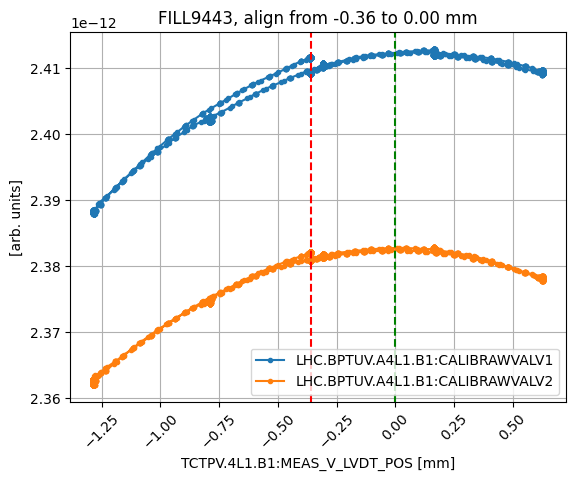
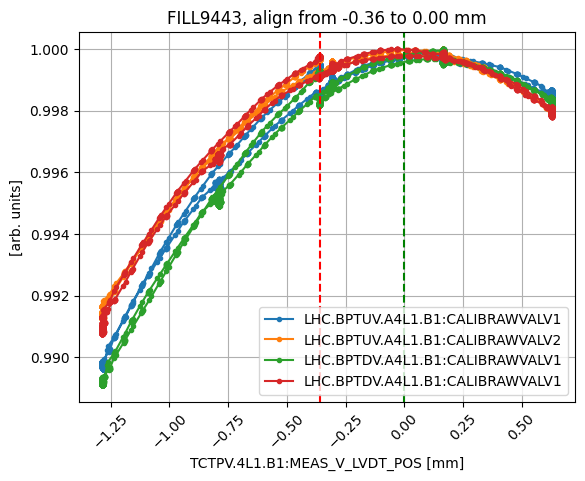
Status

Changed region(s): [[0.0312, 0.0, 1.0, 0.9979], [0.0, 0.3742, 0.0312, 0.4054]]

diff --git a/find_alignment.py b/find_alignment.py
@@ -62,6 +62,14 @@ df = sk.get(t0, t1, [
                     'LHC.BPTUH.A4L5.B1:CALIBRAWVALV2',
                     'LHC.BPTUH.A4R5.B2:CALIBRAWVALV1',
                     'LHC.BPTUH.A4R5.B2:CALIBRAWVALV2',
+                    'LHC.BPTDV.A4L1.B1:CALIBRAWVALV1',
+                    'LHC.BPTDV.A4L1.B1:CALIBRAWVALV2',
+                    'LHC.BPTDV.A4R1.B2:CALIBRAWVALV1',
+                    'LHC.BPTDV.A4R1.B2:CALIBRAWVALV2',
+                    'LHC.BPTDH.A4L5.B1:CALIBRAWVALV1',
+                    'LHC.BPTDH.A4L5.B1:CALIBRAWVALV2',
+                    'LHC.BPTDH.A4R5.B2:CALIBRAWVALV1',
+                    'LHC.BPTDH.A4R5.B2:CALIBRAWVALV2',
                     'LHC.BCTDC.A6R4.B1:BEAM_INTENSITY',
                     'LHC.BCTDC.A6R4.B2:BEAM_INTENSITY',
                     'LHC.BCTDC.B6R4.B1:BEAM_INTENSITY',
@@ -123,12 +131,26 @@ plt.ylabel(f'LHC.BCTDC.A6R4.{my_beam}:BEAM_INTENSITY [p]')
 plt.plot(df[f'DCT_{my_beam}_FIT'].between_time(t0_filtered,t1_filtered), label=f'LHC.BCTDC.A6R4.{my_beam}:BEAM_INTENSITY', color='k')
 plt.savefig(f'plots/scan_TCTP{my_plane}.4{my_string}.png', bbox_inches='tight')
 # %%
+aux = df[f'LHC.BPTU{my_plane}.A4{my_string}:CALIBRAWVALV1'].between_time(t0_filtered,t1_filtered)/df[f'DCT_{my_beam}_FIT'].between_time(t0_filtered,t1_filtered)
+aux = aux/aux.max()
 plt.plot(df[f'TCTP{my_plane}.4{my_string}:MEAS_V_LVDT_POS'].between_time(t0_filtered,t1_filtered),
-          df[f'LHC.BPTU{my_plane}.A4{my_string}:CALIBRAWVALV1'].between_time(t0_filtered,t1_filtered)/
-         df[f'DCT_{my_beam}_FIT'].between_time(t0_filtered,t1_filtered),'.-', label=f'LHC.BPTU{my_plane}.A4{my_string}:CALIBRAWVALV1')
+          aux,'.-', label=f'LHC.BPTU{my_plane}.A4{my_string}:CALIBRAWVALV1')
+
+aux = df[f'LHC.BPTU{my_plane}.A4{my_string}:CALIBRAWVALV2'].between_time(t0_filtered,t1_filtered)/df[f'DCT_{my_beam}_FIT'].between_time(t0_filtered,t1_filtered)
+aux = aux/aux.max()
 plt.plot(df[f'TCTP{my_plane}.4{my_string}:MEAS_V_LVDT_POS'].between_time(t0_filtered,t1_filtered),
-          df[f'LHC.BPTU{my_plane}.A4{my_string}:CALIBRAWVALV2'].between_time(t0_filtered,t1_filtered)/
-          df[f'DCT_{my_beam}_FIT'].between_time(t0_filtered,t1_filtered),'.-', label=f'LHC.BPTU{my_plane}.A4{my_string}:CALIBRAWVALV2')
+          aux,'.-', label=f'LHC.BPTU{my_plane}.A4{my_string}:CALIBRAWVALV2')
+
+aux = df[f'LHC.BPTD{my_plane}.A4{my_string}:CALIBRAWVALV1'].between_time(t0_filtered,t1_filtered)/df[f'DCT_{my_beam}_FIT'].between_time(t0_filtered,t1_filtered)
+aux = aux/aux.max()
+plt.plot(df[f'TCTP{my_plane}.4{my_string}:MEAS_V_LVDT_POS'].between_time(t0_filtered,t1_filtered),
+         aux, '.-', label=f'LHC.BPTD{my_plane}.A4{my_string}:CALIBRAWVALV1')
+
+aux = df[f'LHC.BPTD{my_plane}.A4{my_string}:CALIBRAWVALV2'].between_time(t0_filtered,t1_filtered)/df[f'DCT_{my_beam}_FIT'].between_time(t0_filtered,t1_filtered)
+aux = aux/aux.max()
+plt.plot(df[f'TCTP{my_plane}.4{my_string}:MEAS_V_LVDT_POS'].between_time(t0_filtered,t1_filtered),
+         aux, '.-', label=f'LHC.BPTD{my_plane}.A4{my_string}:CALIBRAWVALV1')
+
 plt.xticks(rotation=45)
 plt.grid()
 plt.ylabel('[arb. units]')
@@ -174,12 +196,26 @@ plt.ylabel(f'LHC.BCTDC.A6R4.{my_beam}:BEAM_INTENSITY [p]')
 plt.plot(df[f'DCT_{my_beam}_FIT'].between_time(t0_filtered,t1_filtered), label=f'LHC.BCTDC.A6R4.{my_beam}:BEAM_INTENSITY', color='k')
 plt.savefig(f'plots/scan_TCTP{my_plane}.4{my_string}.png', bbox_inches='tight')
 # %%
+aux = df[f'LHC.BPTU{my_plane}.A4{my_string}:CALIBRAWVALV1'].between_time(t0_filtered,t1_filtered)/df[f'DCT_{my_beam}_FIT'].between_time(t0_filtered,t1_filtered)
+aux = aux/aux.max()
 plt.plot(df[f'TCTP{my_plane}.4{my_string}:MEAS_V_LVDT_POS'].between_time(t0_filtered,t1_filtered),
-          df[f'LHC.BPTU{my_plane}.A4{my_string}:CALIBRAWVALV1'].between_time(t0_filtered,t1_filtered)/
-         df[f'DCT_{my_beam}_FIT'].between_time(t0_filtered,t1_filtered),'.-', label=f'LHC.BPTU{my_plane}.A4{my_string}:CALIBRAWVALV1')
+          aux,'.-', label=f'LHC.BPTU{my_plane}.A4{my_string}:CALIBRAWVALV1')
+
+aux = df[f'LHC.BPTU{my_plane}.A4{my_string}:CALIBRAWVALV2'].between_time(t0_filtered,t1_filtered)/df[f'DCT_{my_beam}_FIT'].between_time(t0_filtered,t1_filtered)
+aux = aux/aux.max()
 plt.plot(df[f'TCTP{my_plane}.4{my_string}:MEAS_V_LVDT_POS'].between_time(t0_filtered,t1_filtered),
-          df[f'LHC.BPTU{my_plane}.A4{my_string}:CALIBRAWVALV2'].between_time(t0_filtered,t1_filtered)/
-          df[f'DCT_{my_beam}_FIT'].between_time(t0_filtered,t1_filtered),'.-', label=f'LHC.BPTU{my_plane}.A4{my_string}:CALIBRAWVALV2')
+          aux,'.-', label=f'LHC.BPTU{my_plane}.A4{my_string}:CALIBRAWVALV2')
+
+aux = df[f'LHC.BPTD{my_plane}.A4{my_string}:CALIBRAWVALV1'].between_time(t0_filtered,t1_filtered)/df[f'DCT_{my_beam}_FIT'].between_time(t0_filtered,t1_filtered)
+aux = aux/aux.max()
+plt.plot(df[f'TCTP{my_plane}.4{my_string}:MEAS_V_LVDT_POS'].between_time(t0_filtered,t1_filtered),
+         aux, '.-', label=f'LHC.BPTD{my_plane}.A4{my_string}:CALIBRAWVALV1')
+
+aux = df[f'LHC.BPTD{my_plane}.A4{my_string}:CALIBRAWVALV2'].between_time(t0_filtered,t1_filtered)/df[f'DCT_{my_beam}_FIT'].between_time(t0_filtered,t1_filtered)
+aux = aux/aux.max()
+plt.plot(df[f'TCTP{my_plane}.4{my_string}:MEAS_V_LVDT_POS'].between_time(t0_filtered,t1_filtered),
+         aux, '.-', label=f'LHC.BPTD{my_plane}.A4{my_string}:CALIBRAWVALV1')
+
 plt.xticks(rotation=45)
 plt.grid()
 plt.ylabel('[arb. units]')
@@ -187,7 +223,7 @@ plt.xlabel(f'TCTP{my_plane}.4{my_string} [mm]')
 plt.legend()
 # plot vertical line at the 'LHC.BPTUV.A4L1.B1:CALIBRAWVALV1' maximum
 initial_offset = df[f'TCTP{my_plane}.4{my_string}:MEAS_V_LVDT_POS'].between_time(t0_filtered,t1_filtered).dropna()[0]
-offset = 0.5
+offset = 0.6
 plt.axvline(x=initial_offset, color='r', linestyle='--')
 plt.axvline(x=offset, color='g', linestyle='--')
 
@@ -225,12 +261,26 @@ plt.ylabel(f'LHC.BCTDC.A6R4.{my_beam}:BEAM_INTENSITY [p]')
 plt.plot(df[f'DCT_{my_beam}_FIT'].between_time(t0_filtered,t1_filtered), label=f'LHC.BCTDC.A6R4.{my_beam}:BEAM_INTENSITY', color='k')
 plt.savefig(f'plots/scan_TCTP{my_plane}.4{my_string}.png', bbox_inches='tight')
 # %%
+aux = df[f'LHC.BPTU{my_plane}.A4{my_string}:CALIBRAWVALV1'].between_time(t0_filtered,t1_filtered)/df[f'DCT_{my_beam}_FIT'].between_time(t0_filtered,t1_filtered)
+aux = aux/aux.max()
 plt.plot(df[f'TCTP{my_plane}.4{my_string}:MEAS_V_LVDT_POS'].between_time(t0_filtered,t1_filtered),
-          df[f'LHC.BPTU{my_plane}.A4{my_string}:CALIBRAWVALV1'].between_time(t0_filtered,t1_filtered)/
-         df[f'DCT_{my_beam}_FIT'].between_time(t0_filtered,t1_filtered),'.-', label=f'LHC.BPTU{my_plane}.A4{my_string}:CALIBRAWVALV1')
+          aux,'.-', label=f'LHC.BPTU{my_plane}.A4{my_string}:CALIBRAWVALV1')
+
+aux = df[f'LHC.BPTU{my_plane}.A4{my_string}:CALIBRAWVALV2'].between_time(t0_filtered,t1_filtered)/df[f'DCT_{my_beam}_FIT'].between_time(t0_filtered,t1_filtered)
+aux = aux/aux.max()
 plt.plot(df[f'TCTP{my_plane}.4{my_string}:MEAS_V_LVDT_POS'].between_time(t0_filtered,t1_filtered),
-          df[f'LHC.BPTU{my_plane}.A4{my_string}:CALIBRAWVALV2'].between_time(t0_filtered,t1_filtered)/
-          df[f'DCT_{my_beam}_FIT'].between_time(t0_filtered,t1_filtered),'.-', label=f'LHC.BPTU{my_plane}.A4{my_string}:CALIBRAWVALV2')
+          aux,'.-', label=f'LHC.BPTU{my_plane}.A4{my_string}:CALIBRAWVALV2')
+
+aux = df[f'LHC.BPTD{my_plane}.A4{my_string}:CALIBRAWVALV1'].between_time(t0_filtered,t1_filtered)/df[f'DCT_{my_beam}_FIT'].between_time(t0_filtered,t1_filtered)
+aux = aux/aux.max()
+plt.plot(df[f'TCTP{my_plane}.4{my_string}:MEAS_V_LVDT_POS'].between_time(t0_filtered,t1_filtered),
+         aux, '.-', label=f'LHC.BPTD{my_plane}.A4{my_string}:CALIBRAWVALV1')
+
+aux = df[f'LHC.BPTD{my_plane}.A4{my_string}:CALIBRAWVALV2'].between_time(t0_filtered,t1_filtered)/df[f'DCT_{my_beam}_FIT'].between_time(t0_filtered,t1_filtered)
+aux = aux/aux.max()
+plt.plot(df[f'TCTP{my_plane}.4{my_string}:MEAS_V_LVDT_POS'].between_time(t0_filtered,t1_filtered),
+         aux, '.-', label=f'LHC.BPTD{my_plane}.A4{my_string}:CALIBRAWVALV1')
+
 plt.xticks(rotation=45)
 plt.grid()
 plt.ylabel('[arb. units]')
@@ -238,7 +288,7 @@ plt.xlabel(f'TCTP{my_plane}.4{my_string}:MEAS_V_LVDT_POS [mm]')
 plt.legend()
 # plot vertical line at the 'LHC.BPTUV.A4L1.B1:CALIBRAWVALV1' maximum
 initial_offset = df[f'TCTP{my_plane}.4{my_string}:MEAS_V_LVDT_POS'].between_time(t0_filtered,t1_filtered).dropna()[0]
-offset = 1.15
+offset = 1.35
 plt.axvline(x=initial_offset, color='r', linestyle='--')
 plt.axvline(x=offset, color='g', linestyle='--')
 
@@ -275,12 +325,26 @@ plt.ylabel(f'LHC.BCTDC.A6R4.{my_beam}:BEAM_INTENSITY [p]')
 plt.plot(df[f'DCT_{my_beam}_FIT'].between_time(t0_filtered,t1_filtered), label=f'LHC.BCTDC.A6R4.{my_beam}:BEAM_INTENSITY', color='k')
 plt.savefig(f'plots/scan_TCTP{my_plane}.4{my_string}.png', bbox_inches='tight')
 # %%
+aux = df[f'LHC.BPTU{my_plane}.A4{my_string}:CALIBRAWVALV1'].between_time(t0_filtered,t1_filtered)/df[f'DCT_{my_beam}_FIT'].between_time(t0_filtered,t1_filtered)
+aux = aux/aux.max()
 plt.plot(df[f'TCTP{my_plane}.4{my_string}:MEAS_V_LVDT_POS'].between_time(t0_filtered,t1_filtered),
-          df[f'LHC.BPTU{my_plane}.A4{my_string}:CALIBRAWVALV1'].between_time(t0_filtered,t1_filtered)/
-         df[f'DCT_{my_beam}_FIT'].between_time(t0_filtered,t1_filtered),'.-', label=f'LHC.BPTU{my_plane}.A4{my_string}:CALIBRAWVALV1')
+          aux,'.-', label=f'LHC.BPTU{my_plane}.A4{my_string}:CALIBRAWVALV1')
+
+aux = df[f'LHC.BPTU{my_plane}.A4{my_string}:CALIBRAWVALV2'].between_time(t0_filtered,t1_filtered)/df[f'DCT_{my_beam}_FIT'].between_time(t0_filtered,t1_filtered)
+aux = aux/aux.max()
 plt.plot(df[f'TCTP{my_plane}.4{my_string}:MEAS_V_LVDT_POS'].between_time(t0_filtered,t1_filtered),
-          df[f'LHC.BPTU{my_plane}.A4{my_string}:CALIBRAWVALV2'].between_time(t0_filtered,t1_filtered)/
-          df[f'DCT_{my_beam}_FIT'].between_time(t0_filtered,t1_filtered)+.08e-12,'.-', label=f'LHC.BPTU{my_plane}.A4{my_string}:CALIBRAWVALV2')
+          aux,'.-', label=f'LHC.BPTU{my_plane}.A4{my_string}:CALIBRAWVALV2')
+
+aux = df[f'LHC.BPTD{my_plane}.A4{my_string}:CALIBRAWVALV1'].between_time(t0_filtered,t1_filtered)/df[f'DCT_{my_beam}_FIT'].between_time(t0_filtered,t1_filtered)
+aux = aux/aux.max()
+plt.plot(df[f'TCTP{my_plane}.4{my_string}:MEAS_V_LVDT_POS'].between_time(t0_filtered,t1_filtered),
+         aux, '.-', label=f'LHC.BPTD{my_plane}.A4{my_string}:CALIBRAWVALV1')
+
+aux = df[f'LHC.BPTD{my_plane}.A4{my_string}:CALIBRAWVALV2'].between_time(t0_filtered,t1_filtered)/df[f'DCT_{my_beam}_FIT'].between_time(t0_filtered,t1_filtered)
+aux = aux/aux.max()
+plt.plot(df[f'TCTP{my_plane}.4{my_string}:MEAS_V_LVDT_POS'].between_time(t0_filtered,t1_filtered),
+         aux, '.-', label=f'LHC.BPTD{my_plane}.A4{my_string}:CALIBRAWVALV1')
+
 plt.xticks(rotation=45)
 plt.grid()
 plt.ylabel('[arb. units]')
@@ -288,7 +352,7 @@ plt.xlabel(f'TCTP{my_plane}.4{my_string}:MEAS_V_LVDT_POS [mm]')
 plt.legend()
 # plot vertical line at the 'LHC.BPTUV.A4L1.B1:CALIBRAWVALV1' maximum
 initial_offset = df[f'TCTP{my_plane}.4{my_string}:MEAS_V_LVDT_POS'].between_time(t0_filtered,t1_filtered).dropna()[0]
-offset = 0.25
+offset = 0.35
 plt.axvline(x=initial_offset, color='r', linestyle='--')
 plt.axvline(x=offset, color='g', linestyle='--')
 
